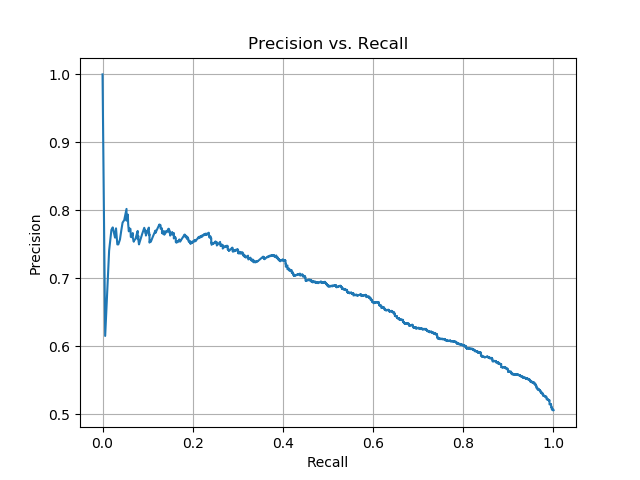
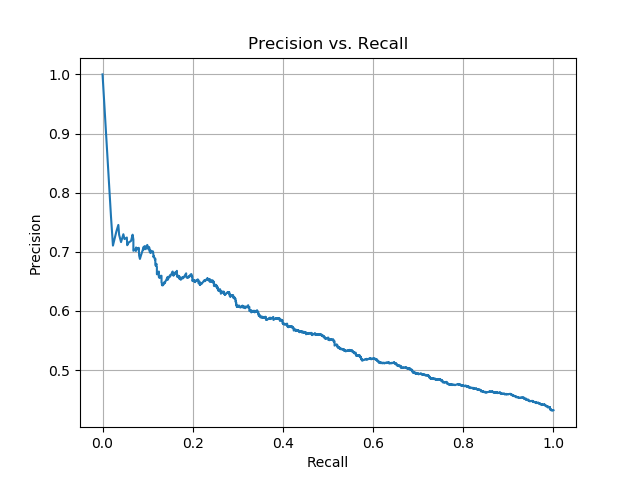
update readme

diff --git a/README.md b/README.md
@@ -1,4 +1,50 @@
 # pytorch-cnn-re
 PyTorch version Relation Extraction codes on SemEval2010-Task8
 
-TODO: The accuracy goes down when the training goes on.
+## Usage
+```bash
+$ python src/train.py # to train the model
+$ python src/test.py # to test the result
+```
+
+## Performance
+```
+                           precision    recall  f1-score   support
+
+  Product-Producer(e2,e1)     0.0000    0.0000    0.0000       123
+                    Other     0.2080    0.6432    0.3143       454
+ Member-Collection(e1,e2)     0.0000    0.0000    0.0000        32
+ Content-Container(e1,e2)     0.7273    0.8366    0.7781       153
+  Product-Producer(e1,e2)     0.0000    0.0000    0.0000       108
+     Entity-Origin(e2,e1)     0.0000    0.0000    0.0000        47
+ Member-Collection(e2,e1)     0.7233    0.9104    0.8062       201
+     Message-Topic(e2,e1)     0.0000    0.0000    0.0000        51
+ Content-Container(e2,e1)     0.7097    0.5641    0.6286        39
+   Component-Whole(e2,e1)     0.4412    0.6000    0.5085       150
+   Component-Whole(e1,e2)     0.7534    0.6790    0.7143       162
+Entity-Destination(e2,e1)     0.0000    0.0000    0.0000         1
+     Message-Topic(e1,e2)     0.0000    0.0000    0.0000       210
+     Entity-Origin(e1,e2)     0.5505    0.5166    0.5330       211
+Entity-Destination(e1,e2)     0.7738    0.8110    0.7919       291
+ Instrument-Agency(e1,e2)     0.0000    0.0000    0.0000        22
+      Cause-Effect(e2,e1)     0.0000    0.0000    0.0000       194
+ Instrument-Agency(e2,e1)     0.0000    0.0000    0.0000       134
+      Cause-Effect(e1,e2)     0.0000    0.0000    0.0000       134
+
+                 accuracy                         0.4306      2717
+                macro avg     0.2572    0.2927    0.2671      2717
+             weighted avg     0.3343    0.4306    0.3619      2717
+
+TEST >>> ACC: 0.4306, Precision: 0.4306, Recall: 0.4306, F1-micro: 0.4306, F1-macro: 0.2671
+
+TEST >>> AUC: 0.5645
+```
+
+![PRC](result/test_prc.png)
+
+## TODO
+
+- Hyperparameter tuning for higher performance
+- GPU support
+- logging utils
+- timer utils
